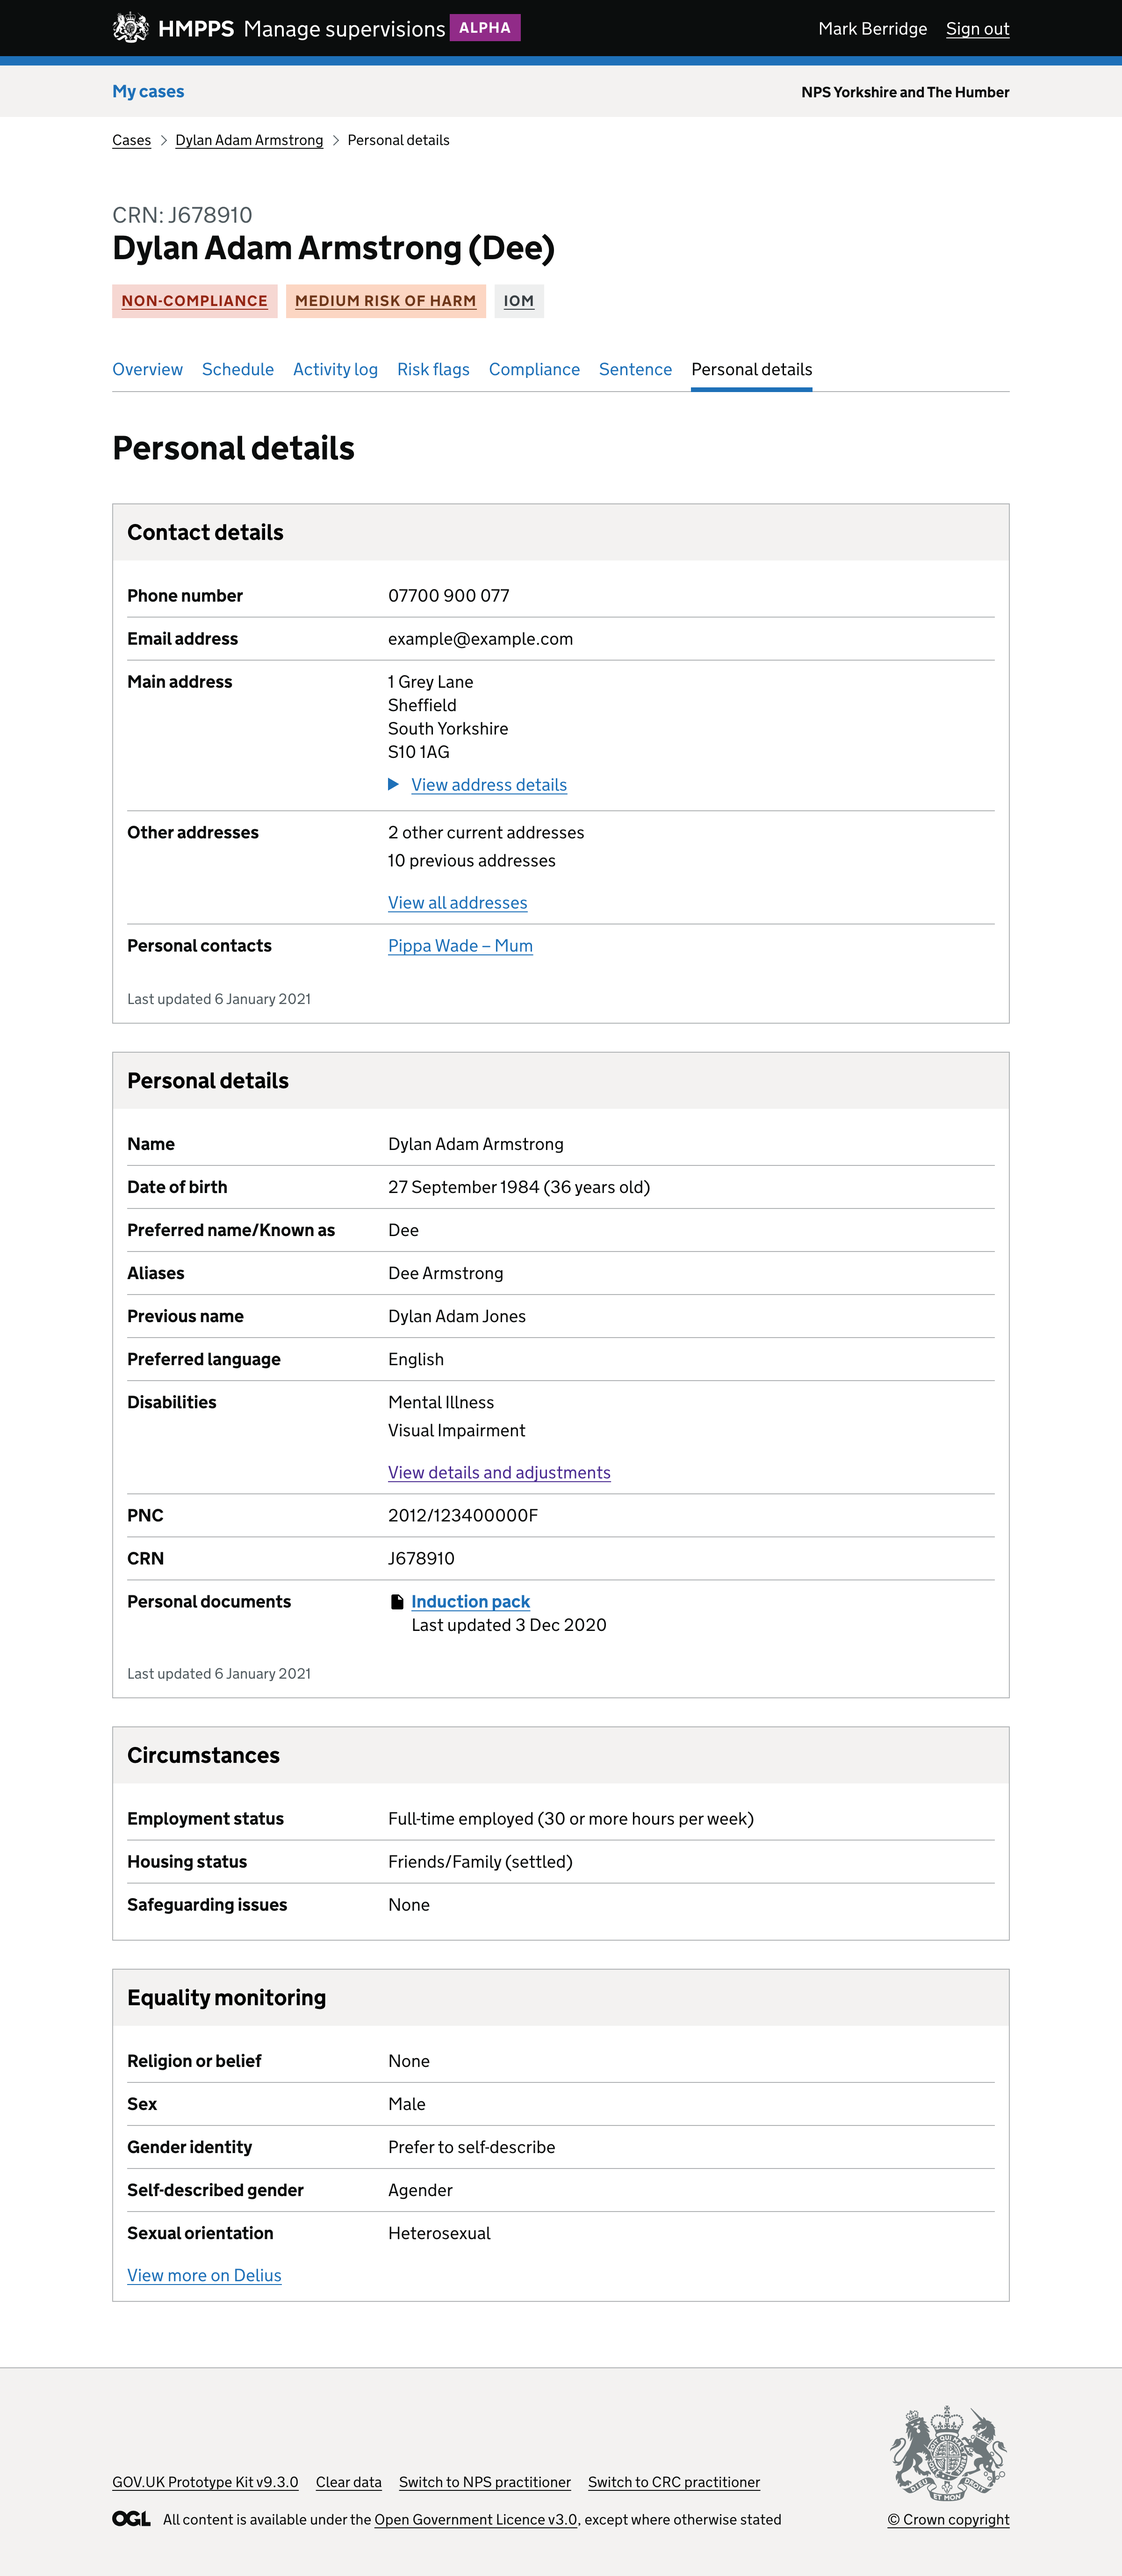
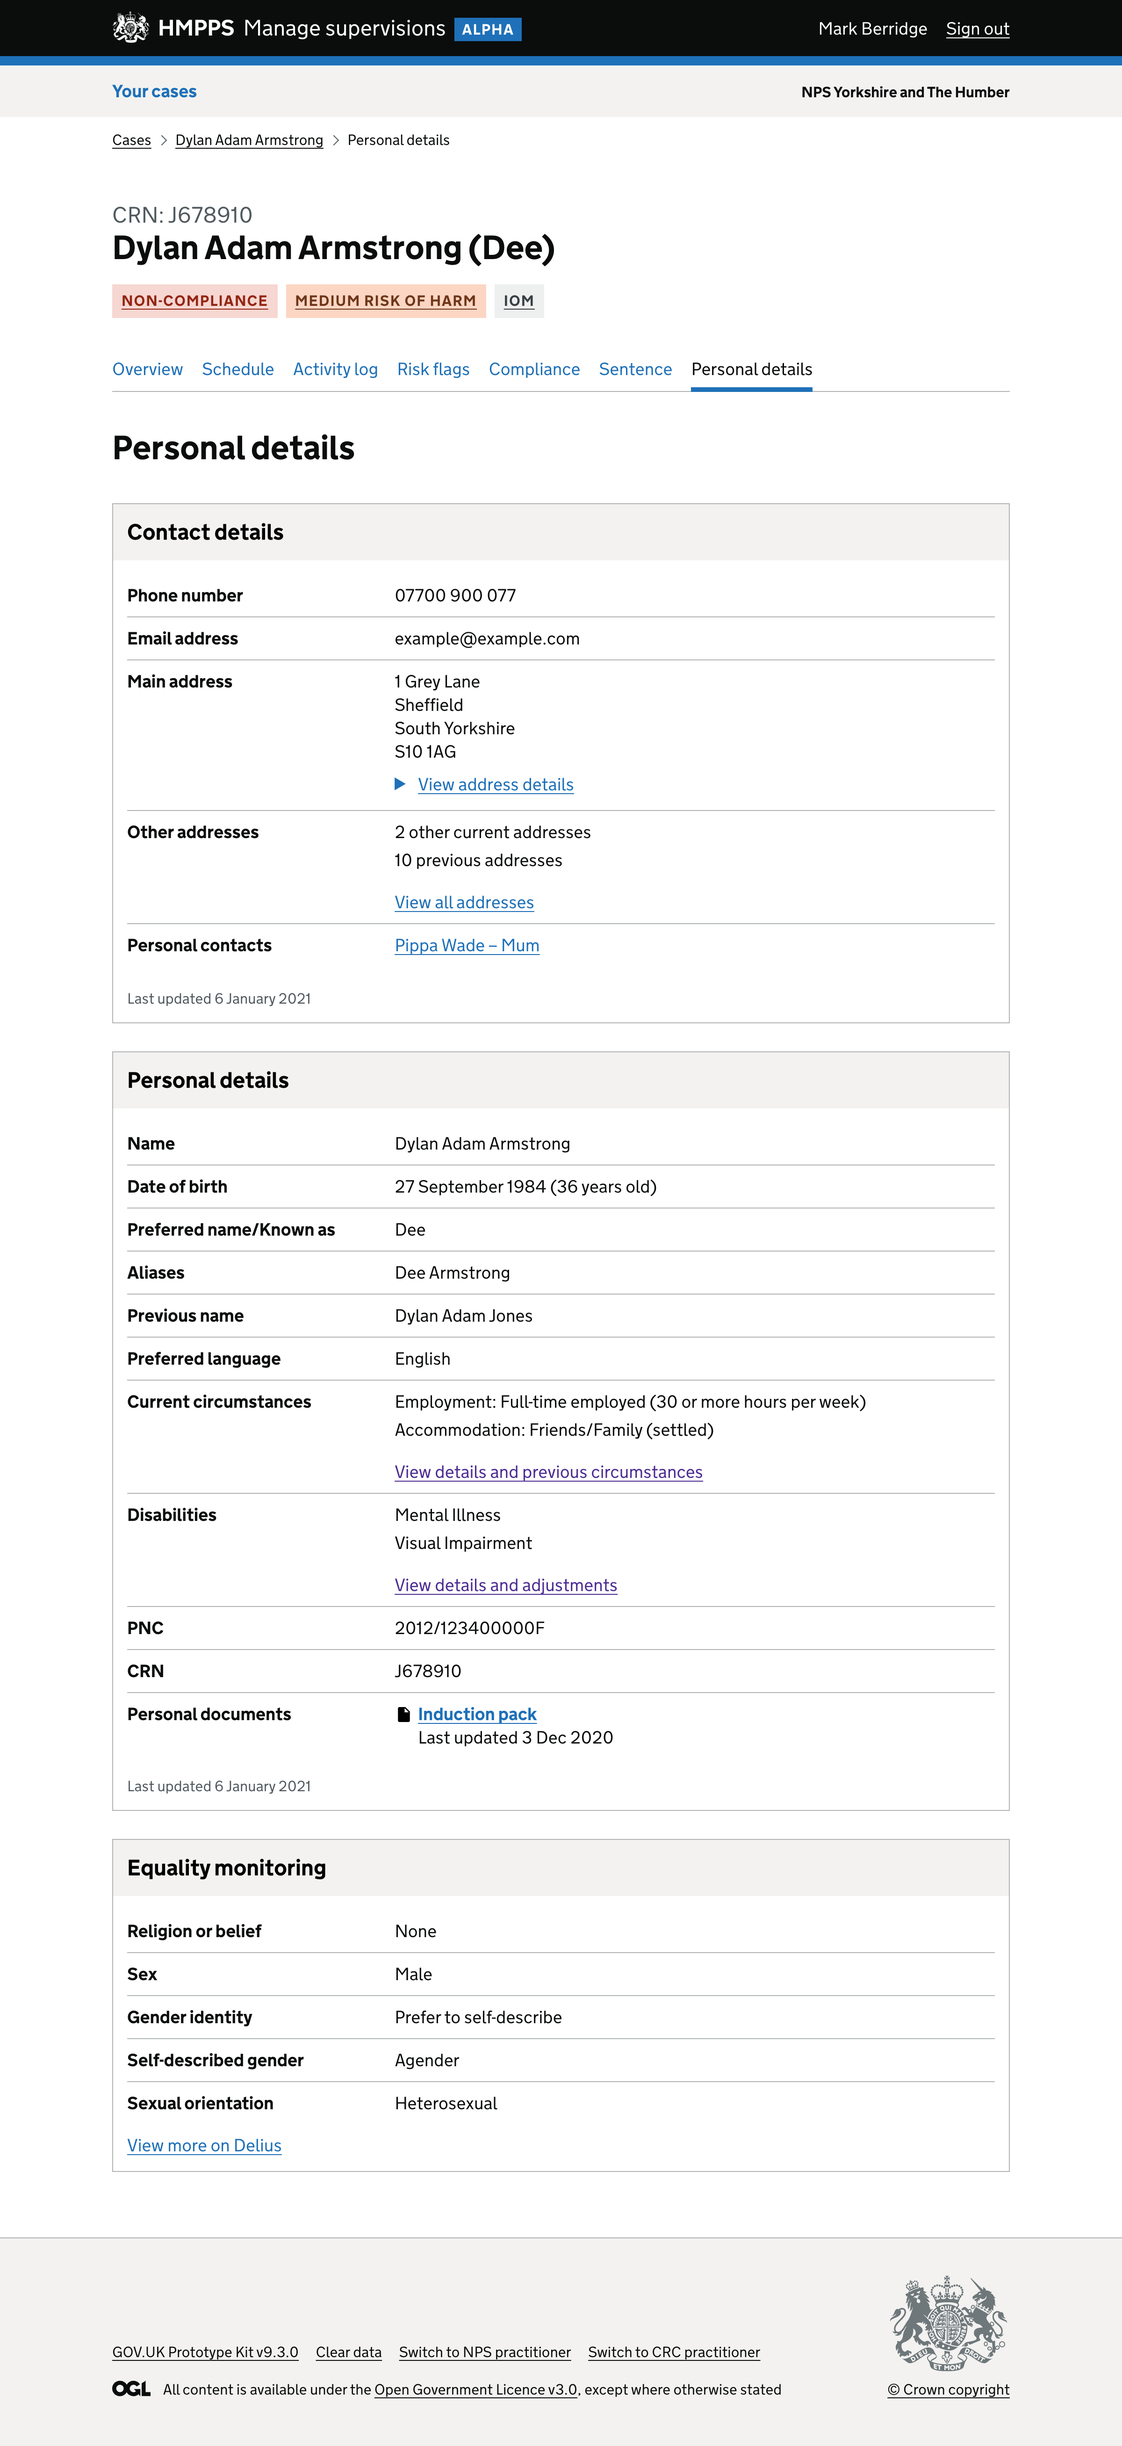
Update personal details post with circumstances

diff --git a/app/posts/2021-06-25-personal-details.md b/app/posts/2021-06-25-personal-details.md
@@ -189,7 +189,39 @@ Another approach might be to show nothing and point all users to Delius, creatin
 ## Personal circumstances
 [View Delius fields](/personal-details/personal-details-data/#personal-circumstances)
 
-This section has been restyled but the data still needs to be assessed.
+Each circumstance has a type and a subtype. The circumstances available to choose from are based on the provider selected in Delius.
+
+Only 1 circumstance of each type and subtype combination can be added (or more specifically – current at once), for example I can add "General Health" with subtype "Maternity" only once. Once added those options aren't shown in the list again.
+
+### Renewing a personal circumstance
+
+Delius allows users to ‘Renew’ a circumstance (by clicking ‘new’). Renewing lets practitioners set an end date on the old circumstance, copy notes from that circumstance, and then asks for start date, end date, verified and notes again – but pre-fills known fields.
+
+How this feature is used by practitioners is unknown.
+
+### Our design
+
+Our personal circumstances section has been removed and incorporated into the personal details section as a summary.
+
+Full details are then shown on a separate circumstances page, much like we do with disabilities and adjustments.
+
+Only current circumstances are summarised, ie any circumstance without an end date in the past. All circumstances are shown on the circumstances page.
+
+There isn’t yet a design for an historic circumstance.
+
+{{ appFigure({
+  title: 'Circumstances as part of personal details section',
+  image: {
+    file: 'personal-circumstances.png'
+  }
+}) }}
+
+{{ appFigure({
+  title: 'Personal circumstances page',
+  image: {
+    file: '08-personal-circumstances-page.png'
+  }
+}) }}
 
 {% from "screenshots/macro.njk" import appScreenshots with context %}
 {{ appScreenshots({
@@ -202,6 +234,9 @@ This section has been restyled but the data still needs to be assessed.
     }, {
       text: "New personal details tab",
       img: { src: "03-new-personal-details.png" }
+    }, {
+      text: "Personal circumstances",
+      img: { src: "08-personal-circumstances-page.png" }
     }, {
       text: "Disabilities and adjustments",
       img: { src: "04-disabilities-and-adjustments.png" }

diff --git a/app/posts/personal-details/2021-06-25-personal-details-data.md b/app/posts/personal-details/2021-06-25-personal-details-data.md
@@ -111,4 +111,12 @@ Last updated 25 June 2021
 
 ## Personal circumstances
 
-This section still needs to be designed.
+| Delius label and section | On circumstances page? |
+|--|--|
+| __Provider__<br />(Personal circumstances) | No – Not included yet, not clear how this provider field is used other than filtering what types of circumstance are available to the practitioner (ie as a filter=) |
+| __Circumstance type__<br />(Personal circumstances) | Yes – Shown on personal details tab as a summary, used as title to sections on circumstances page |
+| __Circumstance&nbsp;subtype__<br />(Personal circumstances) | Yes – Shown on personal details tab as a summary, used as title to sections on circumstances page |
+| __Start date__<br />(Personal circumstances) | Yes – Only on circumstances page |
+| __End date__<br />(Personal circumstances) | Yes – Only if present, on circumstances page |
+| __Verified__<br />(Personal circumstances) | Yes – Only on circumstances page |
+| __Notes__<br />(Personal circumstances) | Yes – Only if present, on circumstances page |
